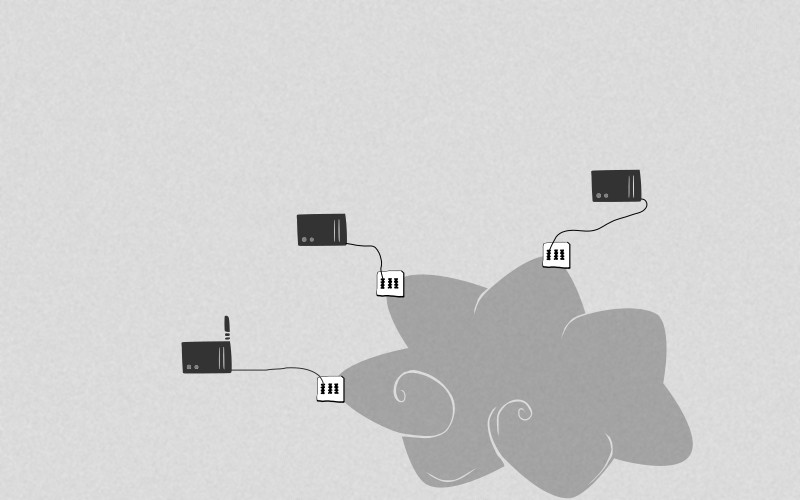
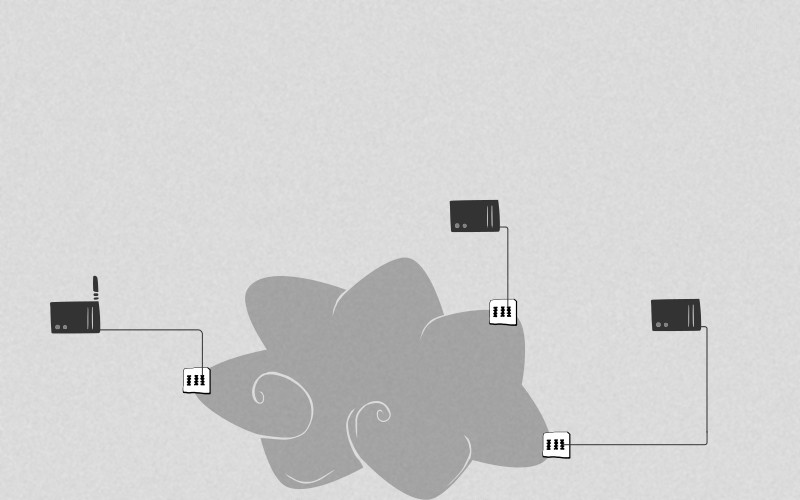
image slider on page mitmachen is half-done \o/ WOOOHOOOO

diff --git a/_sass/_gallery.scss b/_sass/_gallery.scss
@@ -1,0 +1,54 @@
+@import "variables";
+
+@mixin gallery( $item-count ) {
+	$total-duration: $display-duration * $item-count;
+
+	@keyframes controlAnimation-#{$item-count} {
+		0% { @include inactive-button; }
+	  #{100% * $transition-duration / $total-duration},
+	  #{100% * $display-duration / $total-duration} { @include active-button; }
+	  #{100% * ($display-duration + $transition-duration) / $total-duration},
+	  100% { @include inactive-button; }
+	}
+
+	@keyframes galleryAnimation-#{$item-count} {
+	  0% { opacity: 0; }
+	  #{100% * $transition-duration / $total-duration},
+	  #{100% * $display-duration / $total-duration} { opacity: 1; }
+	  #{100% * ($display-duration + $transition-duration) / $total-duration},
+	  100% { opacity: 0; }
+	}
+
+	.gallery {
+		@for $j from 1 through $item-count {
+			.control-operator:nth-of-type(#{$j}):target ~ .item:nth-of-type(#{$j}) { pointer-events: auto; opacity: 1; }
+			.control-operator:nth-of-type(#{$j}):target ~ .controls .control-button:nth-of-type(#{$j}) { @extend %active-button; }
+		}
+	}
+
+	.items-#{$item-count} {
+		&.autoplay .control-button { animation: controlAnimation-#{$item-count} #{$total-duration}s infinite; }
+		&.autoplay .item { animation: galleryAnimation-#{$item-count} #{$total-duration}s infinite; }
+
+		@for $j from 1 through $item-count {
+			.control-button:nth-of-type(#{$j}),
+			.item:nth-of-type(#{$j}) {
+				$delay: #{($j - 1) * ($display-duration) - $transition-duration}s;
+
+				animation-delay: #{$delay};
+			}
+		}
+	}
+}
+
+.gallery {
+	.item:first-of-type { position: static; pointer-events: auto; opacity: 1; } // Set the first item to be visible
+	.item { position: absolute; top: 0; left: 0; width: 100%; height: 100%;  pointer-events: none; opacity: 0; transition: opacity .5s; }
+
+	.control-operator { display: none; } // Stop hash links from scrolling up and down
+
+	.control-operator:target ~ .item { pointer-events: none; opacity: 0; animation: none; } // Unselected image
+
+	.control-button:first-of-type { @extend %active-button; }
+	.control-operator:target ~ .controls .control-button { @extend %inactive-button; animation: none; } // Kill button animation when there is a selected image
+}

diff --git a/_includes/head.html b/_includes/head.html
@@ -8,6 +8,8 @@
 	<link rel="stylesheet" href="{{ "/css/skel.css" | prepend: site.baseurl }}" />
 	<link rel="stylesheet" href="{{ "/css/style.css" | prepend: site.baseurl }}"/>
 	<link rel="stylesheet" href="{{ "/css/style-wide.css" | prepend: site.baseurl }}"/>
+	<link rel="stylesheet" href="{{ "/css/gallery-theme.css" | prepend: site.baseurl }}">
+	<link rel="stylesheet" href="{{ "/css/gallery.css" | prepend: site.baseurl }}">
 	<link rel="canonical" href="{{ page.url | replace:'index.html','' | prepend: site.baseurl }}"> <!-- | prepend: site.url }}">-->
 	<!--[if lte IE 8]><link rel="stylesheet" href="css/ie/v8.css" /><![endif]-->
 	<script src="{{ "/js/jquery.min.js" | prepend: site.baseurl }}"></script>

diff --git a/css/gallery-theme.scss b/css/gallery-theme.scss
@@ -1,0 +1,27 @@
+---
+---
+
+@import "variables";
+
+/*
+	Theme controls how everything looks in Gallery CSS.
+*/
+
+.gallery {
+	position: relative;
+
+  .item { height: 400px; overflow: hidden; text-align: center; background: #4d87e2; }
+	.controls { position: absolute; bottom: 0; width: 100%; text-align: center; }
+
+	.control-button {
+		display: inline-block; margin: 0 .02em;
+		font-size: 3em;
+
+		@extend %inactive-button;
+
+		text-align: center; text-decoration: none;
+		transition: color .1s;
+
+		&:hover { @extend %active-button; }
+	}
+}

diff --git a/_sass/_variables.scss b/_sass/_variables.scss
@@ -1,0 +1,9 @@
+$item-display-duration: 5 !default; //seconds
+$transition-duration: 2 !default; // seconds
+$display-duration: $transition-duration + $item-display-duration;
+
+@mixin inactive-button { color: #ccc; color: rgba(255, 255, 255, .4); }
+@mixin active-button { color: white; color: rgba(255, 255, 255, .8); }
+
+%inactive-button { @include inactive-button; }
+%active-button { @include active-button; }

diff --git a/css/style.scss b/css/style.scss
@@ -1492,3 +1492,8 @@
 			color: rgba(255,255,255,0.75) !important;
 		}
 	}
+
+
+.full-width{
+	width: 100%;
+}

diff --git a/css/gallery.scss b/css/gallery.scss
@@ -1,0 +1,8 @@
+---
+---
+
+@import "gallery";
+
+@for $i from 2 through 7 {
+  @include gallery($i);
+}

diff --git a/pages/mitmachen/wie_funktioniert_freifunk.md b/pages/mitmachen/wie_funktioniert_freifunk.md
@@ -8,17 +8,150 @@ top_url: /mitmachen/
 sub_weight: 2
 ---
 
-## Der Stand der Dinge
+<div class="gallery items-7">
 
-Jeder ist heute im Besitz eines privaten Internetzugangs, den er sowohl per Kabel als auch über WLAN verwendet. Über das WLAN ist jedoch nicht nur Internet, sondern auch das eigene Heimnetzwerk erreichbar. Will man nun den Internetzugang teilen, so steht man unmittelbar vor zwei Problemen:
+	<div id="item-1" class="control-operator"></div>
+	<div id="item-2" class="control-operator"></div>
+	<div id="item-3" class="control-operator"></div>
+	<div id="item-4" class="control-operator"></div>
+	<div id="item-5" class="control-operator"></div>
+	<div id="item-6" class="control-operator"></div>
+	<div id="item-7" class="control-operator"></div>
+  
+	<figure class="item">
+		<section class="box superfluous">
+			<h3>Der Stand der Dinge</h3>
+			<img src="/images/network_1.jpg" class="full-width" />
+			
+			<p>Jeder ist heute im Besitz eines privaten Internetzugangs, den er sowohl per Kabel als auch über WLAN verwendet. Über das WLAN ist jedoch nicht nur Internet, sondern auch das eigene Heimnetzwerk erreichbar. Will man nun den Internetzugang teilen, so steht man unmittelbar vor zwei Problemen:</p>
+			<ul>
+				<li>Mit dem WLAN-Zugang steht dem Gast neben Internet auch noch das persönliche Heimnetzwerk offen: Dateifreigaben, Drucker, Komponenten des "Internet der Dinge" wie Licht, Strom und Heizungssteuerung.</li>
+				<li>Verursachen Gäste über den eigenen Internetzugang rechtliche Probleme, so haftet man als Störer.</li>
+			</ul>
+			<p>Dies führt zu Vorbehalten, anderen Zugang zum eigenen WLAN-Netzwerk zu gewähren. Die Folge sind zahllose eigenständige Netze, auf die jeweils nur der jeweilige Betreiber Zugriff hat. Ist man unterwegs, muss man so das Volumen seines Mobilfunk-Datentarif aufbrauchen oder für einen kommerziellen WLAN-Hotspot zahlen. Will man Daten mit seinen Nachbarn austauschen, so müssen die Daten dennoch einen Umweg über das Internet nehmen.</p>
+		</section>
+	</figure>
+	
+	<div class="secondary-controls">
+		<div class="superfluous">
+			<nav>
+				<a href="#item-7"><img src="/images/arrow-left.svg" alt="Left pointing arrow"></a>
+				<a href="#item-2"><img src="/images/arrow-right.svg" alt="Right pointing arrow"></a>
+			</nav>
+		</div>
+	</div>
 
-* Mit dem WLAN-Zugang steht dem Gast neben Internet auch noch das persönliche Heimnetzwerk offen: Dateifreigaben, Drucker, Komponenten des "Internet der Dinge" wie Licht, Strom und Heizungssteuerung.
-* Verursachen Gäste über den eigenen Internetzugang rechtliche Probleme, so haftet man als Störer.
+	<figure class="item">
+		<section class="box superfluous">
+			<h3>Freifunk als gemeinschaftliches Netzwerk</h3>
+			<img src="/images/network_2.jpg" class="full-width" />
+			<p>Benachbarte Router, die mit der Freifunk-Firmware betrieben werden, bauen untereinander das Freifunk-Netzwerk auf, durch das sie auf direktem Wege Daten austauschen können, ohne den Umweg über das Internet nehmen zu müssen. Diese Funkverbindungen können je nach Modell Entfernungen von einigen dutzend Metern bis hin zu mehreren Kilometern überbrücken und so auch Gebiete erreichen, die nur rudimentär oder gar nicht an das Internet angeschlossen sind.</p>
+			<p>Der Zugang zum Freifunk-Netzwerk ist mit jedem WLAN-fähigen Endgerät oder direkt per Kabel am Freifunk-Router ohne Registrierung oder Passwort möglich.</p>
+		</section>
+	</figure>
+	
+	<div class="secondary-controls">
+		<div class="superfluous">
+			<nav>
+				<a href="#item-1"><img src="/images/arrow-left.svg" alt="Left pointing arrow"></a>
+				<a href="#item-3"><img src="/images/arrow-right.svg" alt="Right pointing arrow"></a>
+			</nav>
+		</div>
+	</div>
 
-Dies führt zu Vorbehalten, anderen Zugang zum eigenen WLAN-Netzwerk zu gewähren. Die Folge sind zahllose eigenständige Netze, auf die jeweils nur der jeweilige Betreiber Zugriff hat. Ist man unterwegs, muss man so das Volumen seines Mobilfunk-Datentarif aufbrauchen oder für einen kommerziellen WLAN-Hotspot zahlen. Will man Daten mit seinen Nachbarn austauschen, so müssen die Daten dennoch einen Umweg über das Internet nehmen.
+	<figure class="item">
+		<section class="box superfluous">
+			<h3>Einzelne Freifunk-Wolken verbinden sich</h3>
+			<img src="/images/network_3.jpg" class="full-width" />
+			<p>Da sich jedoch nicht alle Freifunk-Router untereinander per Funk erreichen, können sie sich außerdem verschlüsselt über das Internet miteinander verbinden. Diese Anbindung an den Rest der Freifunk-Wolke wird von den Routern auch per Funk an benachbarte Freifunk-Router weitergegeben, so dass nicht jeder Router einen Internetzugang benötigt.</p>
+		</section>
+	</figure>
+	
+	<div class="secondary-controls">
+		<div class="superfluous">
+			<nav>
+				<a href="#item-2"><img src="/images/arrow-left.svg" alt="Left pointing arrow"></a>
+				<a href="#item-4"><img src="/images/arrow-right.svg" alt="Right pointing arrow"></a>
+			</nav>
+		</div>
+	</div>
+  
+	<figure class="item">
+		<section class="box superfluous">
+			<h3>Das Heimnetz bleibt privat</h3>
+			<p>Zu jedem Zeitpunkt bleiben Freifunk-Netz und Heimnetz strikt getrennt. Das gilt auch, wenn der eigene Router sich über die Internetverbindung im Heimnetzwerk mit dem Rest der Freifunk-Wolke verbindet. Aus dem Freifunk-Netzwerk heraus ist kein Zugriff auf das private Netzwerk möglich.</p>
+		</section>
+	</figure>
+	
+	<div class="secondary-controls">
+		<div class="superfluous">
+			<nav>
+				<a href="#item-3"><img src="/images/arrow-left.svg" alt="Left pointing arrow"></a>
+				<a href="#item-5"><img src="/images/arrow-right.svg" alt="Right pointing arrow"></a>
+			</nav>
+		</div>
+	</div>
+  
+	<figure class="item">
+		<section class="box">
+			<h3>Zugang zum Internet</h3>
+			<p>Über das Freifunk-Netzwerk steht auch ein Internetzugang zur Verfügung. Dieser erfolgt über eine Reihe von Gateways, welche den Verkehr erst von dort aus ins Internet weiterleiten. Von welchem Freifunker-Router eine Verbindung ins Internet kommt, ist aus dem Internet nicht mehr erkenntlich. Somit lässt sich das Problem der Störerhaftung für Knotenbetreiber vermeiden.</p>
+		</section>
+	</figure>
+	
+	<div class="secondary-controls">
+		<div class="superfluous">
+			<nav>
+				<a href="#item-4"><img src="/images/arrow-left.svg" alt="Left pointing arrow"></a>
+				<a href="#item-6"><img src="/images/arrow-right.svg" alt="Right pointing arrow"></a>
+			</nav>
+		</div>
+	</div>
 
-
-## Freifunk als gemeinschaftliches Netzwerk
+	<figure class="item">
+		<section class="box">
+			<h3>Lokale Dienste im Freifunk-Netz</h3>
+			<p>Wer einen Dienst mit lokalem Bezug zur Verfügung stellen will, ist im Freifunk-Netz genau richtig. Es reicht, den Computer, auf dem der Dienst läuft, mit einem Freifunk-Router zu verbinden, um den Dienst im Freifunk-Netz bereitzustellen.</p>
+			<p>Es existiert eine <a href="/lokale-dienste/">Liste</a> bereits vorhandener Dienste sowie von Ideen für weitere, neue Dienste.</p>
+		</section>
+	</figure>
+	
+	<div class="secondary-controls">
+		<div class="superfluous">
+			<nav>
+				<a href="#item-5"><img src="/images/arrow-left.svg" alt="Left pointing arrow"></a>
+				<a href="#item-7"><img src="/images/arrow-right.svg" alt="Right pointing arrow"></a>
+			</nav>
+		</div>
+	</div>
+  
+	<figure class="item">
+		<section class="box superfluous">
+			<h3>Dienste anderer Freifunk-Communities</h3>
+			<p>Über die Freifunk-Wolke besteht auch Zugang zu den Netzwerken anderer deutschlandweiter Freifunk-Communities, mitsamt der dort vorhandenen Dienste.</p>
+		</section>
+	</figure>
+	
+	<div class="secondary-controls">
+		<div class="superfluous">
+			<nav>
+				<a href="#item-6"><img src="/images/arrow-left.svg" alt="Left pointing arrow"></a>
+				<a href="#item-1"><img src="/images/arrow-right.svg" alt="Right pointing arrow"></a>
+			</nav>
+		</div>
+	</div>
+	
+	<div class="controls">
+		<a href="#item-1" class="control-button">•</a>
+		<a href="#item-2" class="control-button">•</a>
+		<a href="#item-3" class="control-button">•</a>
+		<a href="#item-4" class="control-button">•</a>
+		<a href="#item-5" class="control-button">•</a>
+		<a href="#item-6" class="control-button">•</a>
+		<a href="#item-7" class="control-button">•</a>
+	</div>
+	
+</div>
 
 Benachbarte Router, die mit der Freifunk-Firmware betrieben werden, bauen untereinander das Freifunk-Netzwerk auf, durch das sie auf direktem Wege Daten austauschen können, ohne den Umweg über das Internet nehmen zu müssen. Diese Funkverbindungen können je nach Modell Entfernungen von einigen dutzend Metern bis hin zu mehreren Kilometern überbrücken und so auch Gebiete erreichen, die nur rudimentär oder gar nicht an das Internet angeschlossen sind.
 
